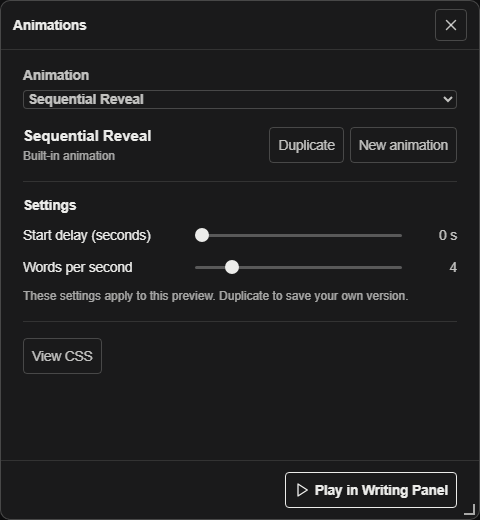
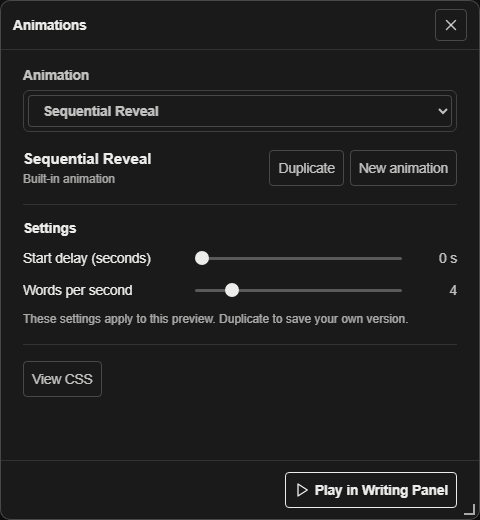
Refine animation selector and support custom deletion

diff --git a/src/animations/AnimationWindow.tsx b/src/animations/AnimationWindow.tsx
@@ -28,7 +28,7 @@ function initialRect(sourceElement: HTMLElement | null): Rect {
   return clamp({ x, y: 110, width, height })
 }
 
-export function AnimationWindow({ panelId, sourceElement, definitions, selected, isCustom, dirty, editCss, status, onClose, onSelect, onParameterChange, onNameChange, onCssChange, onEditCss, onDuplicate, onNew, onSave, onPreview }: {
+export function AnimationWindow({ panelId, sourceElement, definitions, selected, isCustom, dirty, editCss, status, onClose, onSelect, onParameterChange, onNameChange, onCssChange, onEditCss, onDuplicate, onNew, onDelete, onSave, onPreview }: {
   panelId: string
   sourceElement: HTMLElement | null
   definitions: AnimationDefinition[]
@@ -45,6 +45,7 @@ export function AnimationWindow({ panelId, sourceElement, definitions, selected,
   onEditCss(): void
   onDuplicate(): void
   onNew(): void
+  onDelete(): void
   onSave(): void
   onPreview(): void
 }) {
@@ -113,16 +114,19 @@ export function AnimationWindow({ panelId, sourceElement, definitions, selected,
     </header>
     <div className="animation-window-content">
       <label className="animation-window-field">Animation
-        <select className="app-dropdown" aria-label="Animation" value={selected.id} onChange={event => onSelect(event.target.value)}>
-          <optgroup label="Built-in animations">{definitions.filter(definition => !definition.id.startsWith('custom-')).map(definition => <option key={definition.id} value={definition.id}>{definition.name}</option>)}</optgroup>
-          {definitions.some(definition => definition.id.startsWith('custom-')) && <optgroup label="Custom animations">{definitions.filter(definition => definition.id.startsWith('custom-')).map(definition => <option key={definition.id} value={definition.id}>{definition.name}</option>)}</optgroup>}
-        </select>
+        <span className="animation-window-picker">
+          <select className="app-dropdown" aria-label="Animation" value={selected.id} onChange={event => onSelect(event.target.value)}>
+            <optgroup label="Built-in animations">{definitions.filter(definition => !definition.id.startsWith('custom-')).map(definition => <option key={definition.id} value={definition.id}>{definition.name}</option>)}</optgroup>
+            {definitions.some(definition => definition.id.startsWith('custom-')) && <optgroup label="Custom animations">{definitions.filter(definition => definition.id.startsWith('custom-')).map(definition => <option key={definition.id} value={definition.id}>{definition.name}</option>)}</optgroup>}
+          </select>
+        </span>
       </label>
       <div className="animation-window-selection">
         <div><h2>{selected.name}</h2><span>{isCustom ? dirty ? 'Custom · Unsaved changes' : 'Custom · Saved' : 'Built-in animation'}</span></div>
         <div className="animation-window-actions">
           <button type="button" className="app-chrome-control" onClick={onDuplicate}>Duplicate</button>
           <button type="button" className="app-chrome-control" onClick={onNew}>New animation</button>
+          {isCustom && <button type="button" className="app-chrome-control animation-window-delete" onClick={onDelete}>Delete</button>}
         </div>
       </div>
       <section className="animation-window-section" aria-label="Animation parameters">

diff --git a/browser-tests/text-animations.spec.ts b/browser-tests/text-animations.spec.ts
@@ -101,6 +101,48 @@ test('start delay waits before playback and keeps its remaining time when paused
   await expect(editor).toContainText('One two three four')
 })
 
+test('only custom animations can be deleted, without removing other saved animations', async ({ page }) => {
+  await openApp(page)
+  const note = await panelOfType(page, 'notes')
+  const panel = await shapeOf(page, note.panelId)
+  const editor = noteBodyOf(panel)
+  await editor.fill('Words for a custom animation')
+  const manager = await openAnimations(panel)
+  await expect(manager.getByRole('button', { name: 'Delete', exact: true })).toHaveCount(0)
+
+  await manager.getByRole('button', { name: 'Duplicate' }).click()
+  await expect(manager.getByRole('button', { name: 'Delete', exact: true })).toBeVisible()
+  page.once('dialog', dialog => dialog.dismiss())
+  await manager.getByRole('button', { name: 'Delete', exact: true }).click()
+  await expect(manager).toContainText('Unsaved changes')
+  page.once('dialog', dialog => dialog.accept())
+  await manager.getByRole('button', { name: 'Delete', exact: true }).click()
+  await expect(manager.getByRole('button', { name: 'Delete', exact: true })).toHaveCount(0)
+  await expect(manager.locator('.animation-window-status')).toHaveText('Unsaved animation discarded.')
+
+  await manager.getByRole('button', { name: 'Duplicate' }).click()
+  await manager.getByRole('textbox', { name: 'Animation name' }).fill('Keep me')
+  await manager.getByRole('button', { name: 'Save animation' }).click()
+  await manager.getByRole('combobox', { name: 'Animation' }).selectOption('sequential-reveal')
+  await manager.getByRole('button', { name: 'Duplicate' }).click()
+  await manager.getByRole('textbox', { name: 'Animation name' }).fill('Remove me')
+  await manager.getByRole('button', { name: 'Save animation' }).click()
+  await manager.screenshot({ path: 'test-results/animations-custom-delete.png' })
+  await manager.getByRole('button', { name: 'Play in Writing Panel' }).click()
+  await expect(panel.locator('.animation-preview-host')).toContainText('Words for a custom animation')
+  page.once('dialog', dialog => dialog.accept())
+  await manager.getByRole('button', { name: 'Delete', exact: true }).click()
+  await expect(editor).toBeVisible()
+  await expect(manager.getByRole('combobox', { name: 'Animation' })).toHaveValue('sequential-reveal')
+  await expect(manager.getByRole('option', { name: 'Remove me' })).toHaveCount(0)
+  await expect(manager.getByRole('option', { name: 'Keep me' })).toBeAttached()
+  await page.reload()
+  await waitForCanvas(page)
+  const restored = await openAnimations(await shapeOf(page, note.panelId))
+  await expect(restored.getByRole('option', { name: 'Remove me' })).toHaveCount(0)
+  await expect(restored.getByRole('option', { name: 'Keep me' })).toBeAttached()
+})
+
 test('writing stays clear; playback and authoring are separate', async ({ page }) => {
   const { pageErrors } = await openApp(page)
   const note = await panelOfType(page, 'notes')

diff --git a/src/animations/AnimationControls.tsx b/src/animations/AnimationControls.tsx
@@ -80,6 +80,22 @@ export function AnimationControls({ panelId, sourceElement, writingMode, documen
       setStatus('Saved on this device.')
     } catch (error) { setStatus(error instanceof Error ? error.message : 'Could not save this animation.') }
   }
+  function remove() {
+    if (!isCustom) return
+    const stored = loadCustomAnimations()
+    const saved = stored.some(definition => definition.id === selected.id)
+    if (!window.confirm(saved ? `Delete "${selected.name}" from this device?` : `Discard "${selected.name}"?`)) return
+    try {
+      const next = stored.filter(definition => definition.id !== selected.id)
+      if (saved) saveCustomAnimations(next)
+      setCustom(next)
+      setDrafts(current => { const updated = { ...current }; delete updated[selected.id]; return updated })
+      if (playbackDefinition?.id === selected.id) exit()
+      setSelectedId(builtInAnimations[0].id)
+      setEditCss(false)
+      setStatus(saved ? 'Animation deleted from this device.' : 'Unsaved animation discarded.')
+    } catch (error) { setStatus(error instanceof Error ? error.message : 'Could not delete this animation.') }
+  }
   function preview() {
     try {
       validateAnimationCss(selected.css)
@@ -124,7 +140,7 @@ export function AnimationControls({ panelId, sourceElement, writingMode, documen
       onParameterChange={(id, value) => updateDraft({ ...selected, parameters: selected.parameters.map(parameter => parameter.id === id ? { ...parameter, value } : parameter) }, true)}
       onNameChange={name => updateDraft({ ...selected, name })}
       onCssChange={css => updateDraft({ ...selected, css })}
-      onEditCss={() => setEditCss(value => !value)} onDuplicate={duplicate} onNew={createNew} onSave={save} onPreview={preview}
+      onEditCss={() => setEditCss(value => !value)} onDuplicate={duplicate} onNew={createNew} onDelete={remove} onSave={save} onPreview={preview}
     />}
   </>
 }

diff --git a/src/animations/animations.css b/src/animations/animations.css
@@ -18,11 +18,14 @@
 .animation-window-content { flex: 1; min-height: 0; overflow: auto; display: grid; align-content: start; gap: 18px; padding: 18px 22px 24px; }
 .animation-window-field { display: grid; gap: 7px; min-width: 0; color: var(--color-text-soft); font-weight: var(--font-weight-semibold); }
 .animation-window-field select, .animation-window-field input, .animation-window-field textarea { box-sizing: border-box; width: 100%; min-width: 0; font: inherit; }
+.animation-window-picker { display: block; min-width: 0; padding: var(--space-detail-1); border: var(--border-width-hairline) solid var(--color-panel-border); border-radius: var(--radius-control); }
+.animation-window-picker select { height: var(--card-header-button-size); padding-inline: 10px; }
 .animation-window-field input, .animation-window-field textarea { color: var(--color-input-text); background: var(--color-input-bg); border: 1px solid var(--color-control-border); border-radius: var(--radius-control); padding: 8px 10px; }
 .animation-window-selection { display: flex; flex-wrap: wrap; justify-content: space-between; align-items: start; gap: 12px; min-width: 0; }
 .animation-window-selection h2 { margin: 0 0 4px; font-size: var(--type-md); }
 .animation-window-selection span { color: var(--color-text-muted); font-size: var(--type-xs); }
 .animation-window-actions { display: flex; flex-wrap: wrap; justify-content: flex-end; gap: 6px; }
+.animation-window-delete:hover, .animation-window-delete:focus-visible { color: var(--color-danger); }
 .animation-window-section { display: grid; gap: 12px; min-width: 0; padding-top: 16px; border-top: 1px solid var(--color-panel-divider); }
 .animation-window-section h3 { margin: 0; font-size: var(--type-sm); }
 .animation-window-section > .app-chrome-control { justify-self: start; }

diff --git a/docs/text-animations.md b/docs/text-animations.md
@@ -32,7 +32,7 @@ The two built-ins have the same format and execute through the same preview rend
 
 Open the Writing panel's **···** menu and choose **Animations**. A compact strip below the Writing header lets you choose an animation and press **Play**. The selector stays in place during playback; the same strip offers pause, replay, settings, and an explicit **Stop** action. The chevron hides the entire strip while the animation continues. Open **Animations** from the panel menu again to reveal the controls; **Stop** then returns to the mounted editor without changing its content or undo history. Settings opens the movable, resizable window for parameters, duplication, and CSS editing. Closing that window leaves playback running.
 
-Built-in definitions are immutable. Their parameter adjustments are temporary preview settings. Press **Duplicate** to make an editable copy, or **New animation** to start from a simple word rule. A custom animation shows **Unsaved changes** until saved. **Edit CSS** opens its name and CSS fields; built-ins offer **View CSS** as read-only. **Save animation** persists the definition in this browser's `localStorage` under `mic:text-animations:v1`, separate from notes and boards. Closing and reopening the window keeps unsaved edits for the current panel session. Changing the active note, hiding or deleting the source panel, or switching boards closes its window and playback; saved definitions remain available locally.
+Built-in definitions are immutable. Their parameter adjustments are temporary preview settings. Press **Duplicate** to make an editable copy, or **New animation** to start from a simple word rule. A custom animation shows **Unsaved changes** until saved. **Edit CSS** opens its name and CSS fields; built-ins offer **View CSS** as read-only. **Save animation** persists the definition in this browser's `localStorage` under `mic:text-animations:v1`, separate from notes and boards. **Delete** is available only for custom animations and asks for confirmation; deleting the animation currently playing also returns the panel to writing. Closing and reopening the window keeps unsaved edits for the current panel session. Changing the active note, hiding or deleting the source panel, or switching boards closes its window and playback; saved definitions remain available locally.
 
 The CSS interface is `.word`, with zero-based `data-index`, total `data-word-count`, and `data-revealed` and `data-illuminated` values of `true` or `false`. For example:
 
